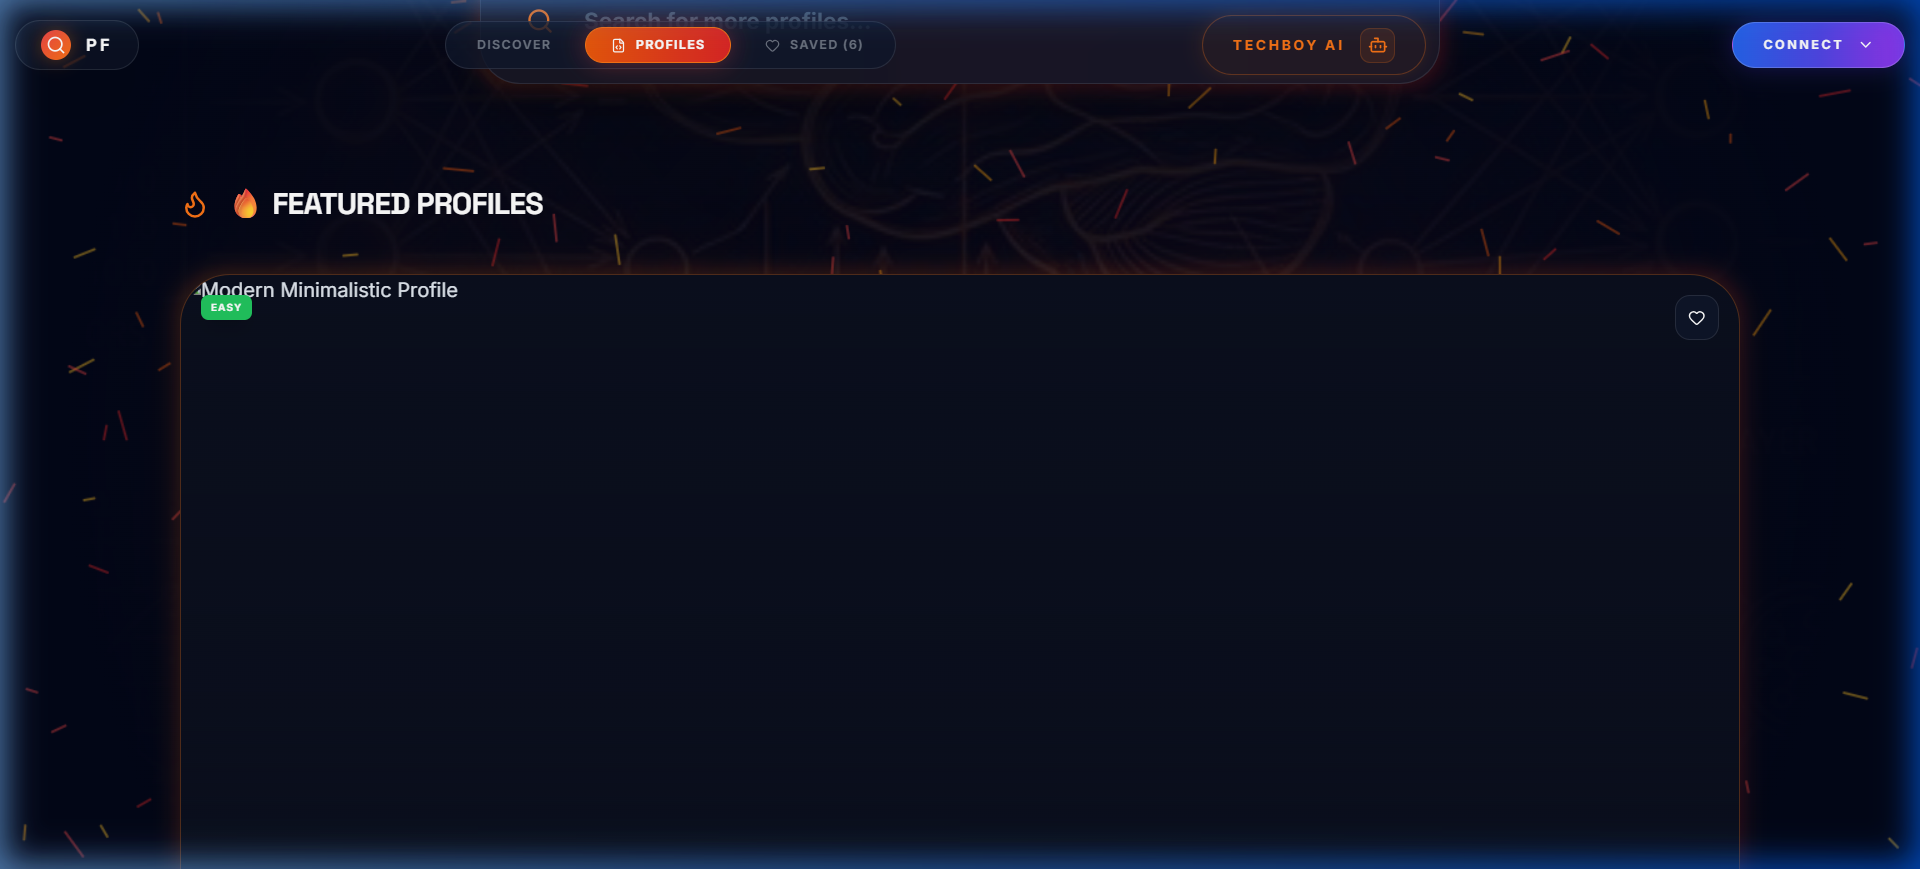
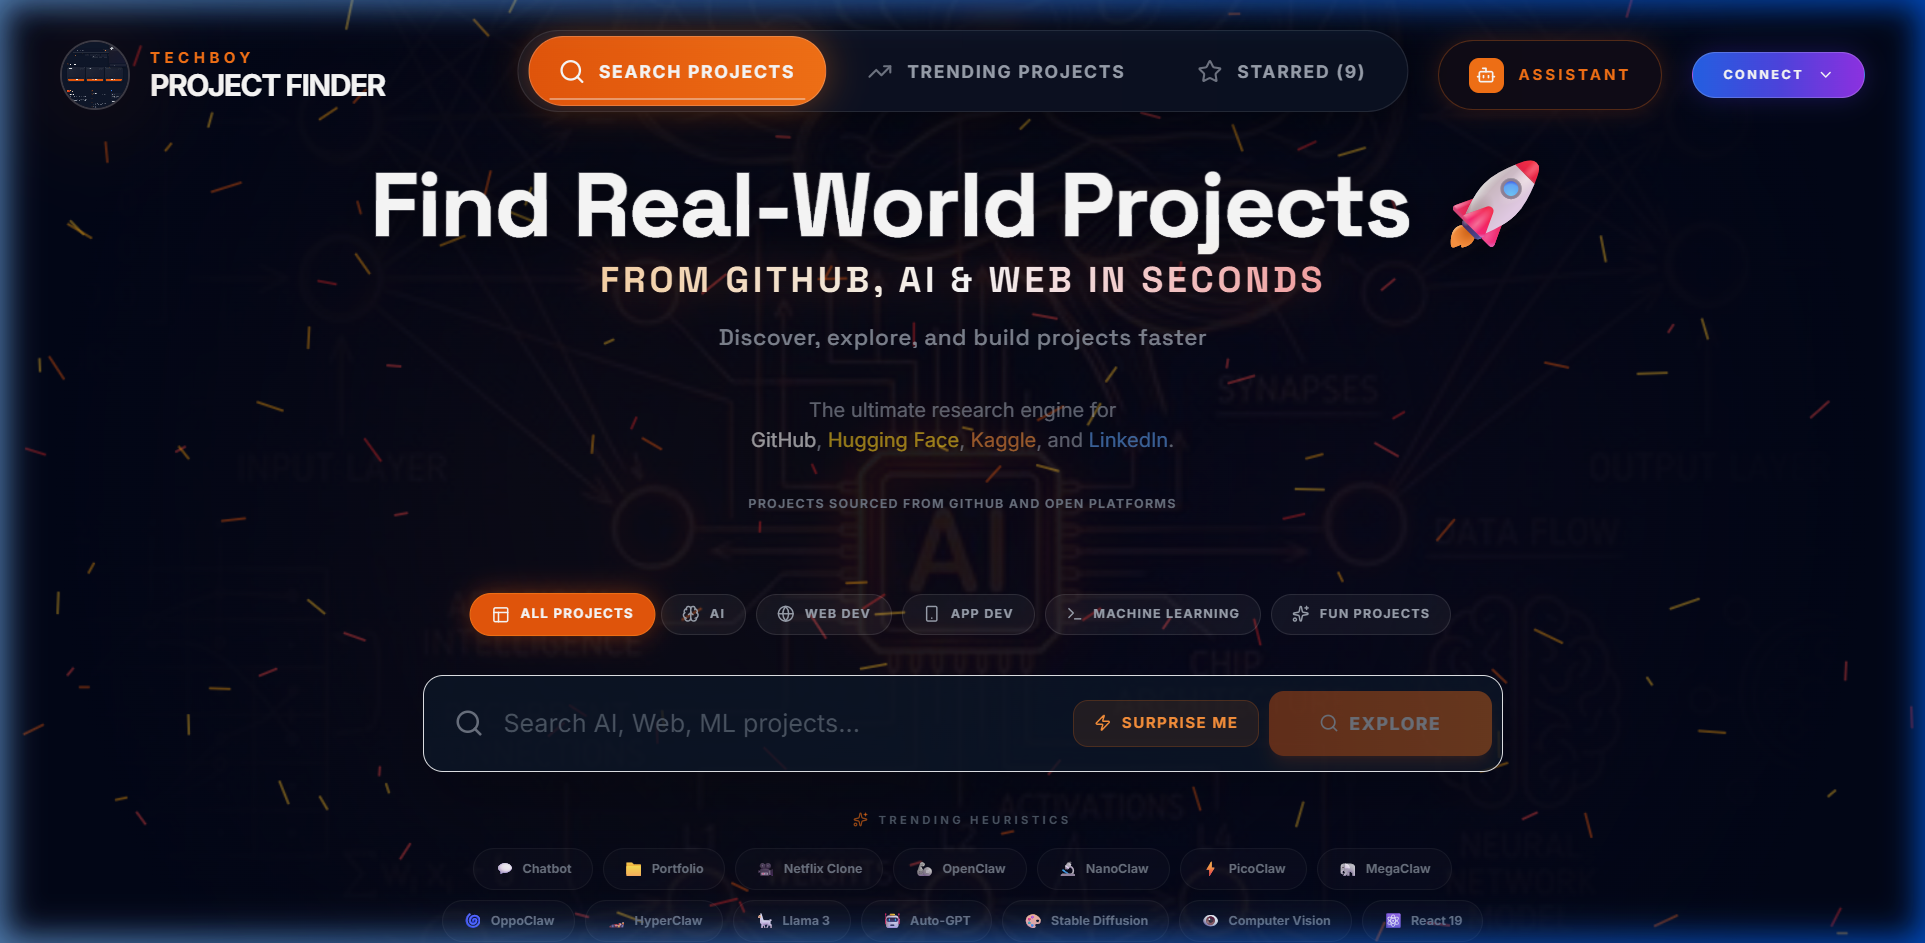
Docs: Update README with new screenshots and Footer branding

diff --git a/components/Footer.tsx b/components/Footer.tsx
@@ -36,8 +36,8 @@ export const Footer: React.FC<FooterProps> = ({ onComingSoonClick, isCompact, la
                                 </div>
                             </div>
                             <div className="flex flex-col select-none">
-                                <span className="text-4xl font-black bg-clip-text text-transparent bg-gradient-to-r from-orange-200 via-white to-orange-400 tracking-tighter">
-                                    {isCompact ? 'PF' : 'Project Finder'}
+                                <span className="text-3xl md:text-4xl font-black bg-clip-text text-transparent bg-gradient-to-r from-orange-200 via-white to-orange-400 tracking-tighter">
+                                    {isCompact ? 'Techboy PF' : 'Techboy Project Finder'}
                                 </span>
                                 <div className="flex items-center gap-2 mt-1">
                                     <div className="h-[2px] w-8 bg-orange-500 rounded-full" />
@@ -214,11 +214,11 @@ export const Footer: React.FC<FooterProps> = ({ onComingSoonClick, isCompact, la
                     <div className="flex flex-col items-center md:items-start gap-4">
                         <div className="flex items-center gap-4">
                             <p className="text-gray-500 text-[10px] font-black uppercase tracking-widest opacity-40">
-                                © {currentYear} Project Finder
+                                © {currentYear} Techboy Project Finder
                             </p>
                             <div className="w-1 h-1 rounded-full bg-gray-800" />
                             <div className="flex items-center gap-2 text-[10px] font-black uppercase tracking-widest text-gray-500">
-                                COOKED BY <span className="text-white">RAGHU</span> <Heart size={10} className="text-red-500 fill-red-500 animate-pulse" />
+                                COOKED BY <span className="text-white">TECHBOY RAGHU</span> <Heart size={10} className="text-red-500 fill-red-500 animate-pulse" />
                             </div>
                         </div>
                     </div>

diff --git a/README.md b/README.md
@@ -1,11 +1,11 @@
 <div align="center">
 
-<img src="https://capsule-render.vercel.app/api?type=waving&color=gradient&height=200&section=header&text=Project%20Finder&fontSize=90&animation=fadeIn&fontAlignY=38" width="100%" />
+<img src="https://capsule-render.vercel.app/api?type=waving&color=gradient&height=200&section=header&text=Techboy%20Project%20Finder&fontSize=70&animation=fadeIn&fontAlignY=38" width="100%" />
 
-[![Typing SVG](https://readme-typing-svg.demolab.com?font=Space+Grotesk&weight=700&size=24&pause=1000&color=F97316&center=true&vCenter=true&width=435&lines=Discover+Your+Next+Big+Idea;Explore+GitHub+Profile+Designs;Save+Your+Favorite+Projects)](https://git.io/typing-svg)
+[![Typing SVG](https://readme-typing-svg.demolab.com?font=Space+Grotesk&weight=700&size=24&pause=1000&color=F97316&center=true&vCenter=true&width=435&lines=Discover+Your+Next+Big+Idea;Explore+Trending+Tech+Projects;Save+Your+Favorite+Projects)](https://git.io/typing-svg)
 
 <p align="center">
-  <strong>The ultimate gateway to open-source inspiration, project discovery, and profile aesthetics.</strong>
+  <strong>The ultimate gateway to open-source inspiration, premium project discovery, and AI-assisted workflow.</strong>
 </p>
 
 [🚀 Live Demo](https://project-finder-chimata.vercel.app/) • [💻 Explore Code](https://github.com/chimataraghuram/PROJECT-FINDER) • [🎨 Browse Profiles](https://project-finder-chimata.vercel.app/#profiles)
@@ -39,11 +39,11 @@ Fully responsive design optimized for browsing on the go.
 
 <br/>
 
-### ⚡ Live Functionality (GIF Demo)
-Watch the smart search and README gallery discovery in action.
+### ⚡ Trending & Discovery Engine
+Watch the real-time trending dashboard featuring GitHub, Kaggle, Hugging Face, and more.
 
 <div align="center">
-  <img src="./assets/demo.webp" width="100%" style="border-radius: 20px; border: 1px solid rgba(255,255,255,0.1);" />
+  <img src="./assets/trending-preview.png" width="100%" style="border-radius: 20px; border: 1px solid rgba(255,255,255,0.1);" />
 </div>
 
 ---
@@ -56,11 +56,10 @@ Watch the smart search and README gallery discovery in action.
 | ❤ | **Save Favorites** | Securely save your favorite projects and profiles via Firebase integration. |
 | 🎨 | **README Gallery** | A curated visual gallery of the world's best GitHub profile designs. |
 | 📱 | **Responsive Design** | Pixel-perfect experience across mobile, tablet, and desktop. |
+| 🚀 | **3-Section Premium Navbar** | Balanced layout with mascot branding and adaptive navigation pill. |
 | ⚡ | **Fast UI** | Blazing fast search and interactions powered by React and Framer Motion. |
 | 🤖 | **Techboy Assistant** | Your personal AI guide to help you find the right tools and projects. |
-| 💊 | **Adaptive Navbar** | Scroll-aware navigation pill that transitions between text and icon modes. |
-| 🔥 | **Trending Hub** | Real-time discovery across GitHub, Hugging Face, Kaggle, and LinkedIn. |
-| 🎨 | **Profile Gallery** | Massive visual collection of world-class GitHub profile README designs. |
+| ⭐ | **Live Analytics** | Seamlessly extract exact source intelligence and repository metrics. |
 
 ---
 
